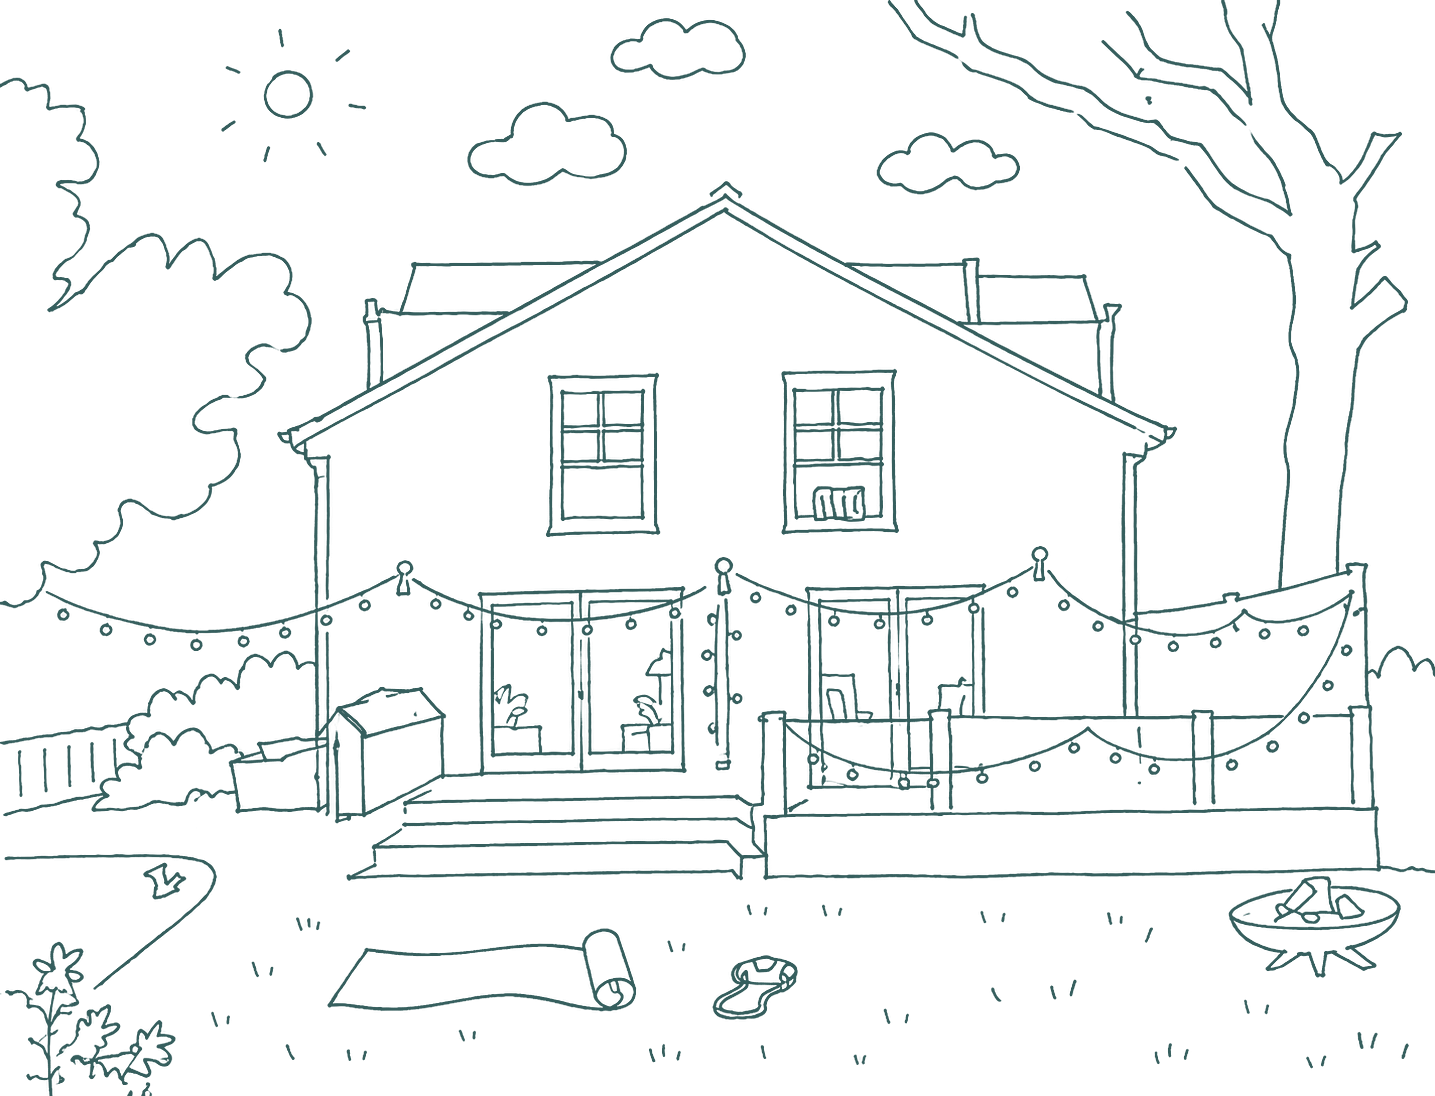
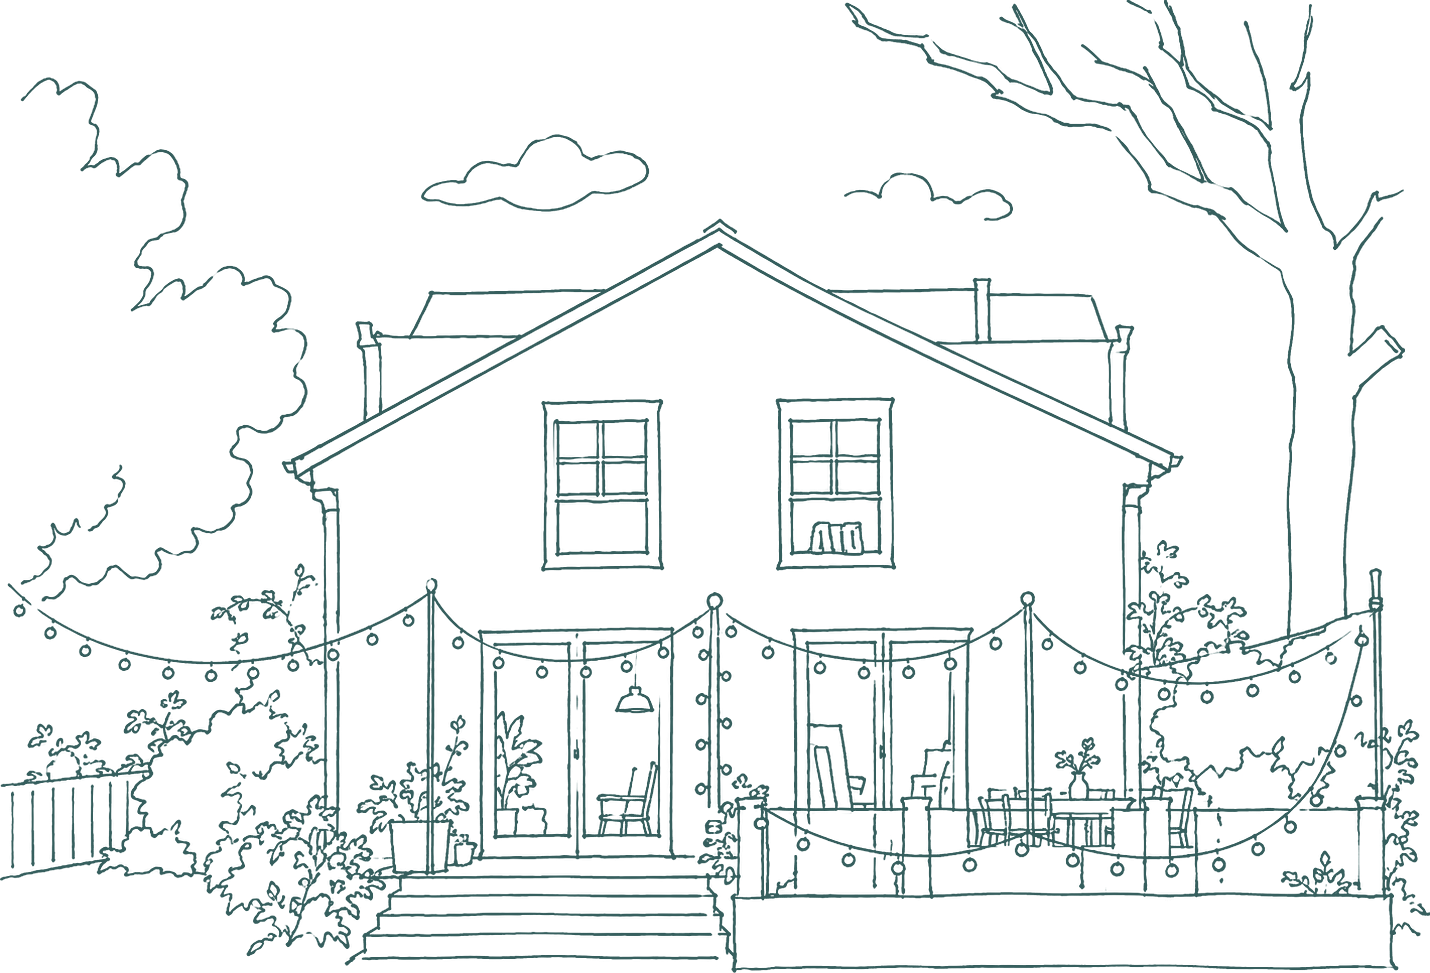
New drawing, smaller on the page, lighter to load
Replaces the ground with the more detailed version and brings it down
from 62rem to 46rem, a little nearer the text column.

Re-encoded as an indexed PNG: the drawing is one colour at 256
opacities, so a 256-entry palette of the same teal with a tRNS alpha
ramp says in one byte per pixel what RGBA needed four for. 187KB
against 256KB, pixel for pixel identical.

diff --git a/about.html b/about.html
@@ -32,7 +32,7 @@
     </div>
   </main>
 
-    <img class="ground" src="haus.png" alt="Line drawing of the Farwell house: a gabled two-storey house behind a fence strung with lights, a fire pit and a garden hose in the yard." width="1435" height="1096">
+    <img class="ground" src="haus.png" alt="Line drawing of the Farwell house: a gabled two-storey house behind a fence strung with lights, chairs and planters on the deck, and a tree overhead." width="1430" height="973">
 
   <footer class="colophon">
     <div>Farwell &middot; Cambridge, Massachusetts</div>

diff --git a/index.html b/index.html
@@ -107,7 +107,7 @@
 
   </main>
 
-    <img class="ground" src="haus.png" alt="Line drawing of the Farwell house: a gabled two-storey house behind a fence strung with lights, a fire pit and a garden hose in the yard." width="1435" height="1096">
+    <img class="ground" src="haus.png" alt="Line drawing of the Farwell house: a gabled two-storey house behind a fence strung with lights, chairs and planters on the deck, and a tree overhead." width="1430" height="973">
 
   <footer class="colophon">
     <div>Farwell &middot; Cambridge, Massachusetts</div>

diff --git a/style.css b/style.css
@@ -126,10 +126,10 @@ body {
   left: 50%;
   transform: translateX(-50%);
   width: 100vw;
-  max-width: 62rem;
+  max-width: 46rem;
   height: auto;
-  margin-top: 7rem;
-  opacity: 0.62;
+  margin-top: 6rem;
+  opacity: 0.7;
 }
 
 @media (max-width: 44rem) {
